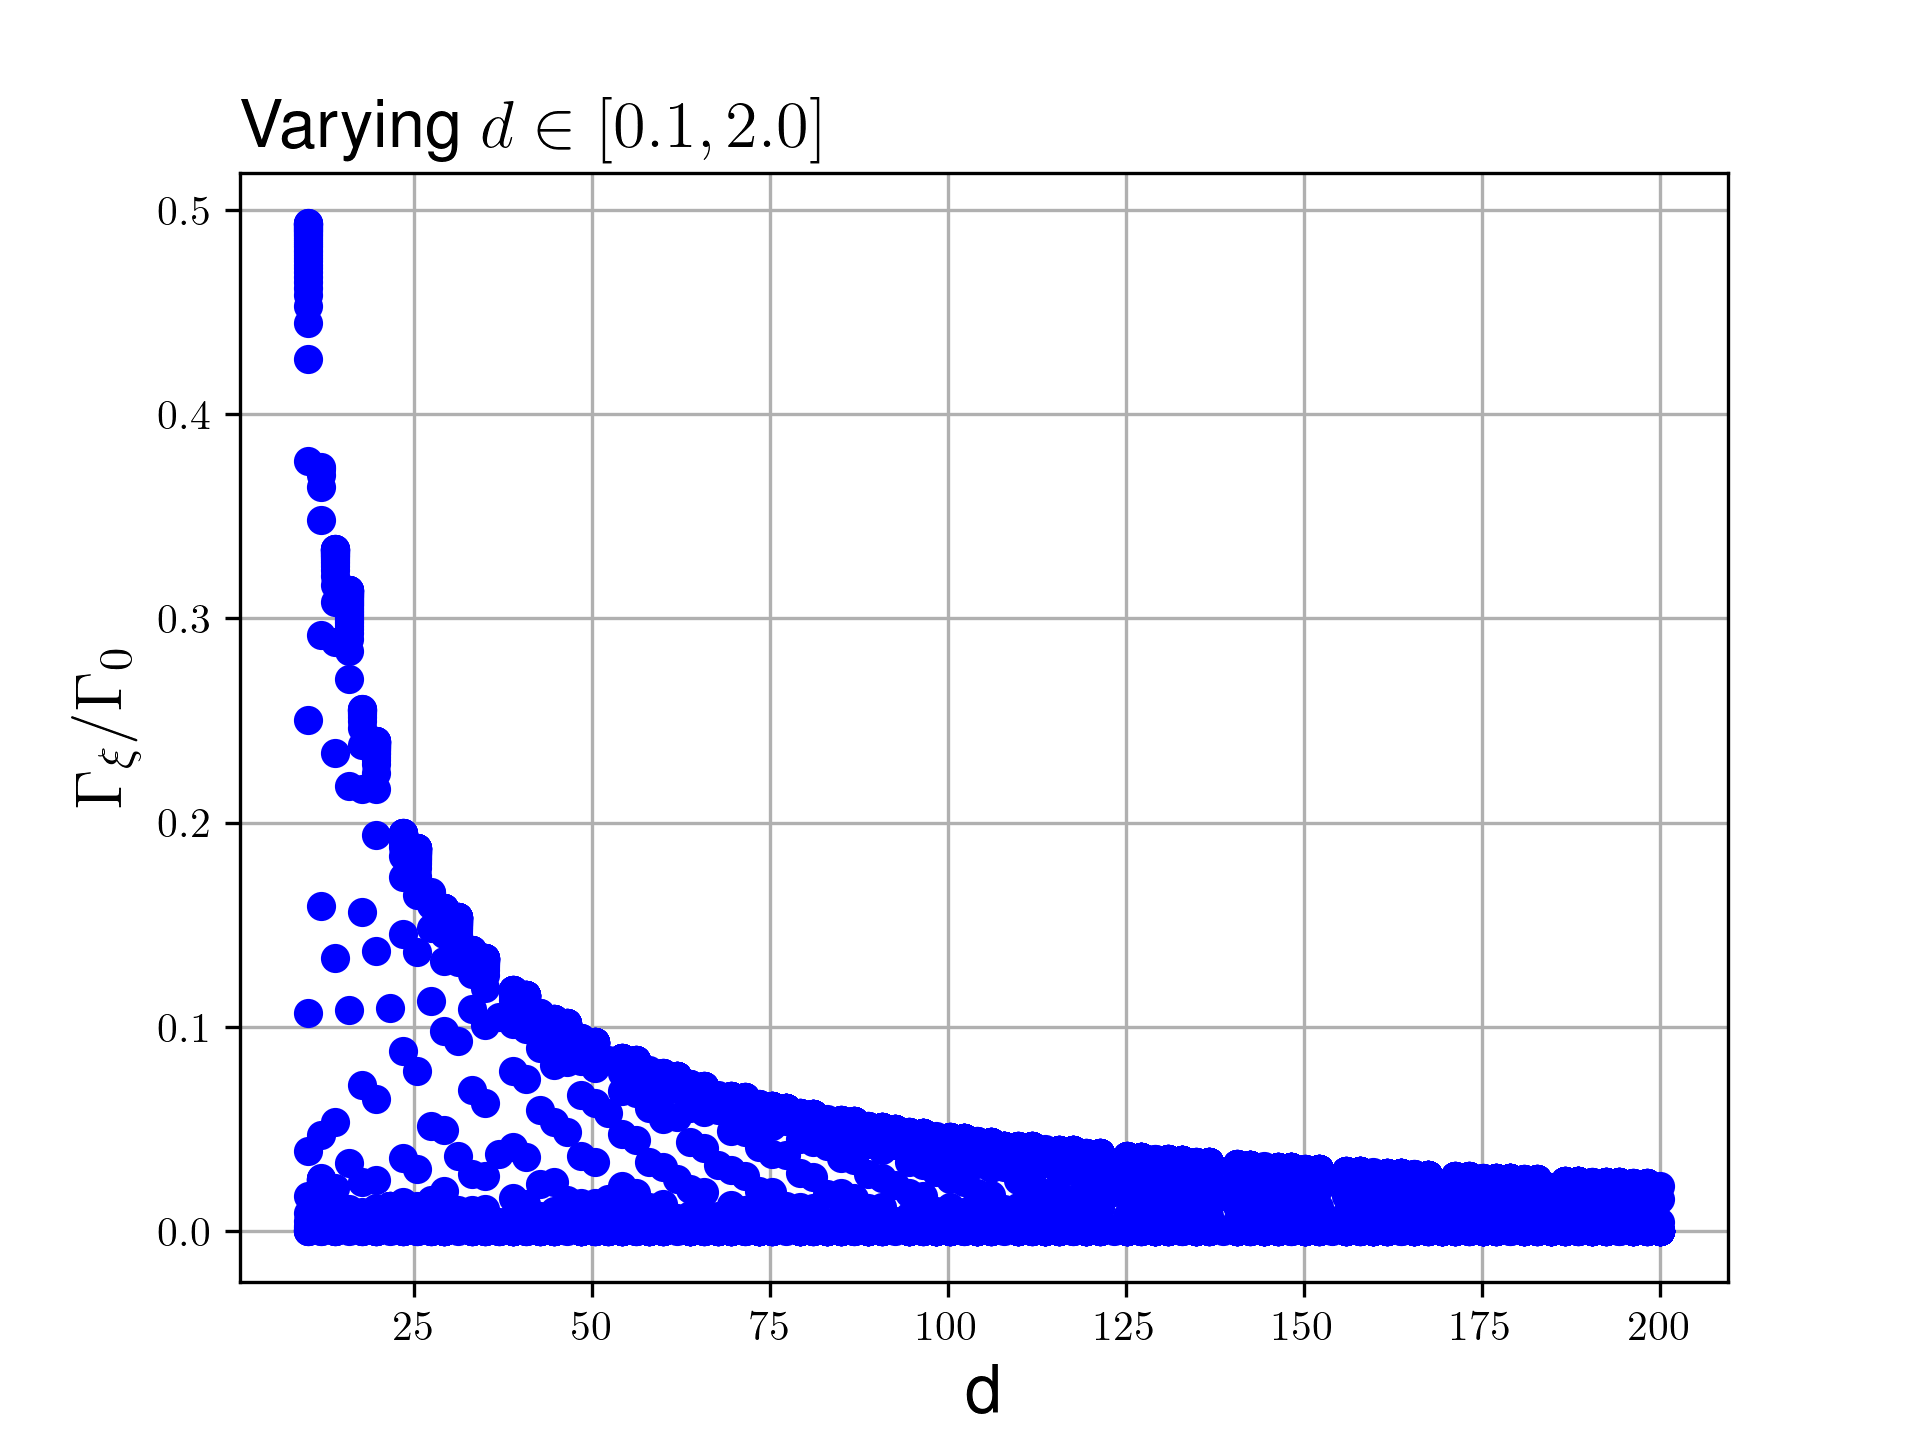
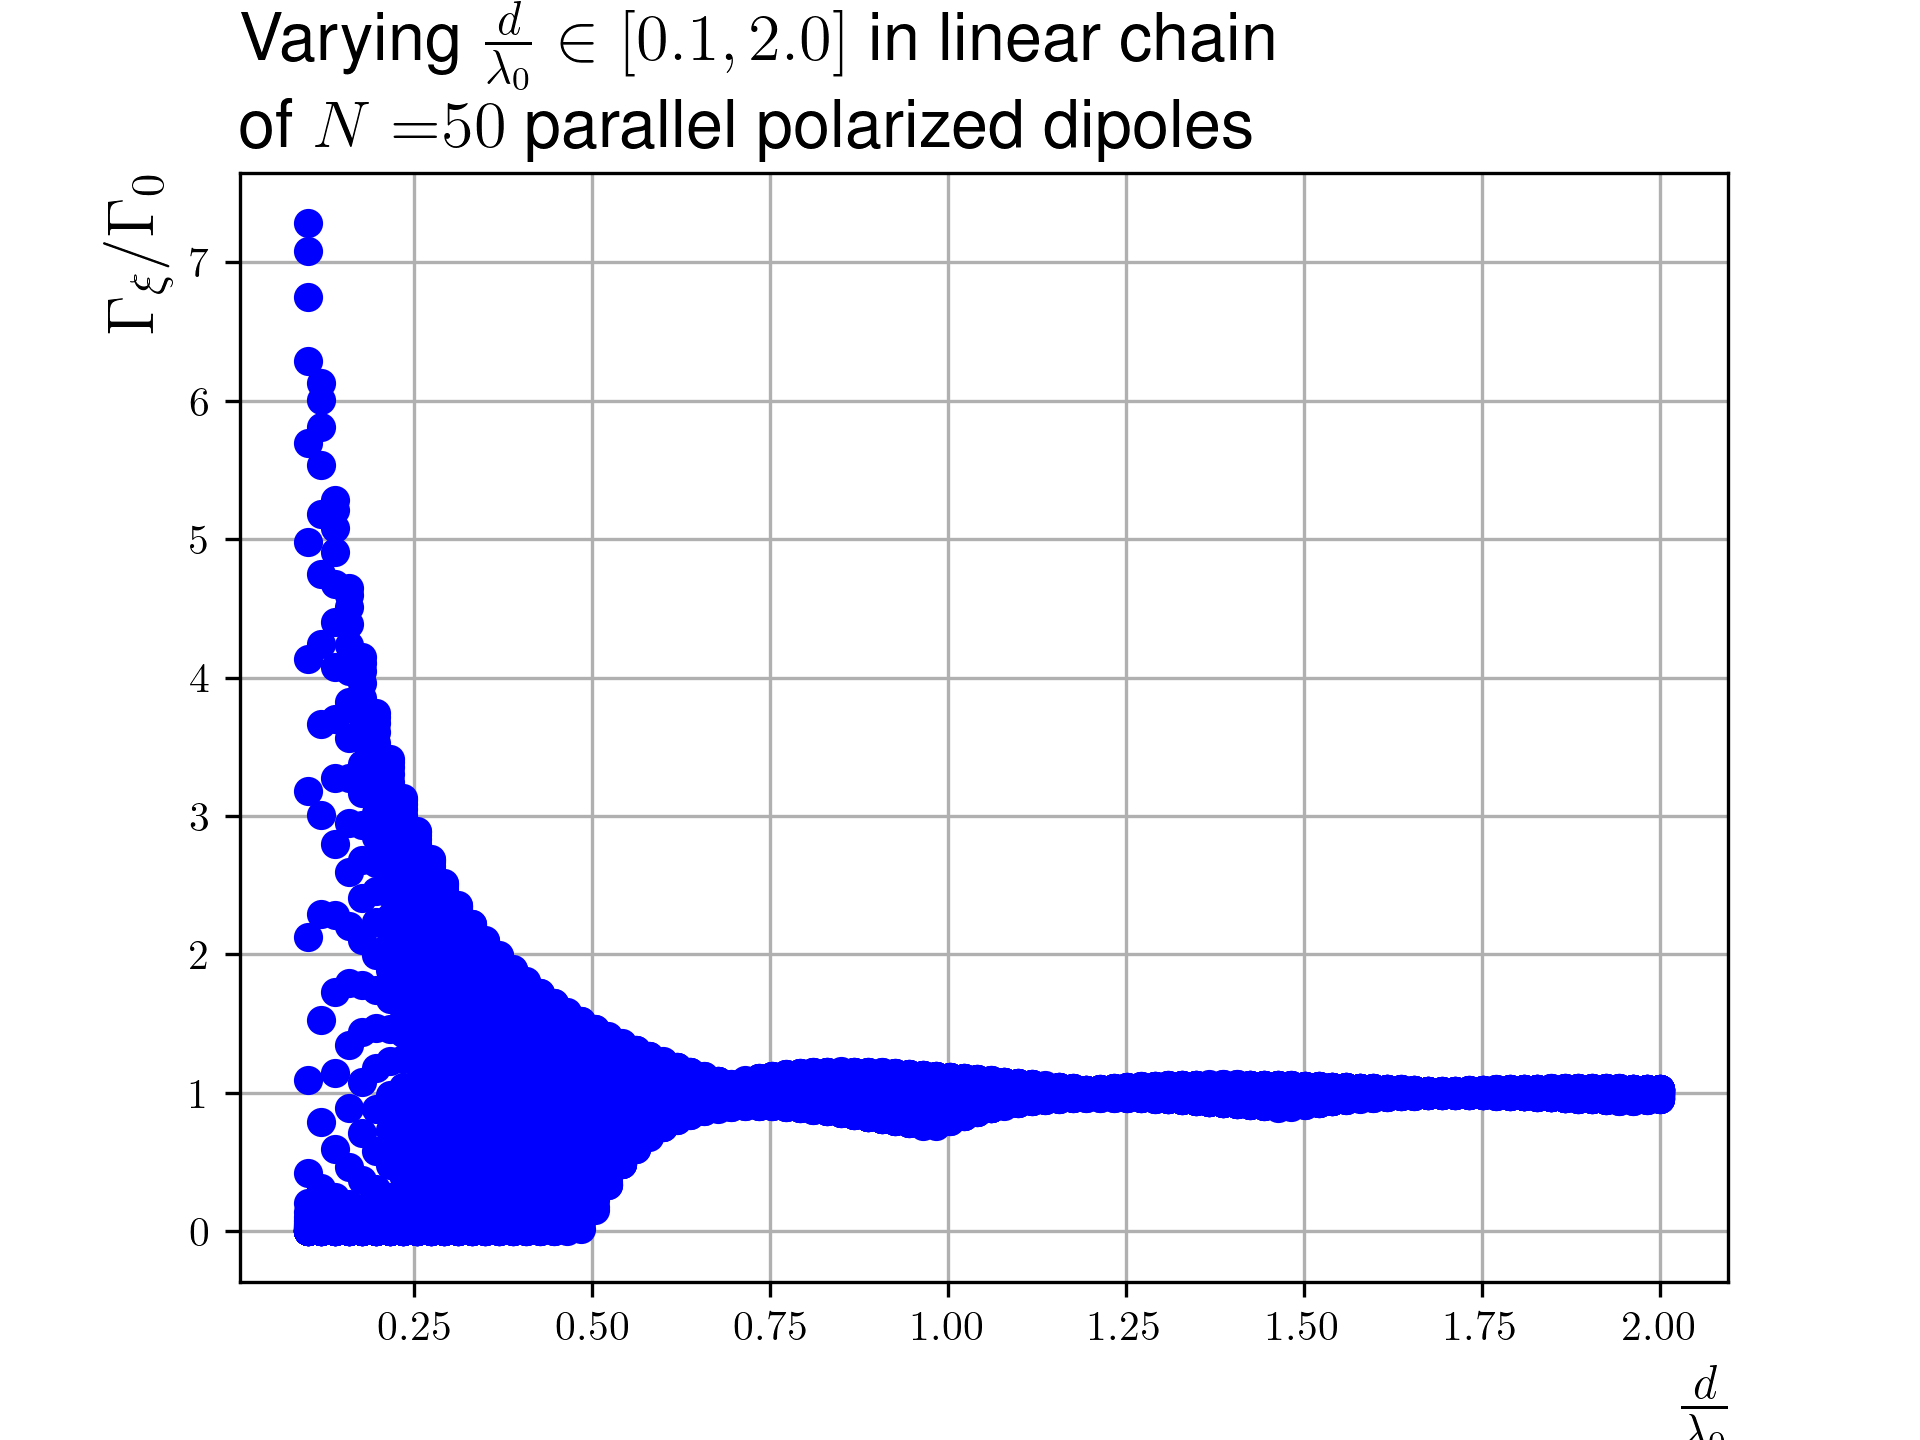
Reproduced figure 3(a) from Asenjo-Garcia

diff --git a/case_linear_parallel_var_distance.py b/case_linear_parallel_var_distance.py
@@ -1,0 +1,46 @@
+import numpy as np
+import matplotlib.pyplot as plt
+from scipy.constants import *
+from qutip import *
+from GreensTensor import *
+import Hamiltonian
+import Lattice
+import Plots
+from utils import *
+from textwrap import wrap
+
+#Program parameters:
+N = 50                                                          #number of atoms
+
+
+"""
+Different inter-atomic distances in scalar (linear transverse) case.
+"""
+
+a = np.linspace(0.1, 2.0, 100)  #d/lambda0
+d = 2*pi * a                    #The distance to feed G in units of 1/k0
+
+lat = Lattice.Lattice()
+scal = Hamiltonian.Hamiltonian()
+pola = np.zeros((N,3))
+for i in range(N):
+    pola[i,:] = ex
+
+p = Plots.Plots()
+x = np.zeros(N)
+for i in range(len(a)):
+    x[:] = a[i]
+    lat.linlat(N, d[i], ex, ex)
+    displacements = lat.getDisplacements()
+    G = fill_G(N, displacements)
+    scal.block(N, G, pola)
+    scal.eigenDecomposition()
+    y = scal.getDecayRates()
+    p.plot(x, y, 'b.')
+
+plt.xlabel(r"$\frac{d}{\lambda_0}$", loc="right")
+plt.ylabel(r"$\Gamma_\xi / \Gamma_0$", loc="top")
+plt.ylim(0,3)
+plt.title("\n".join(wrap(r"Varying $\frac{d}{\lambda_0} \in [0.1, 2.0]$ in linear chain of $N=$"+r"${}$".format(N)+" parallel polarized dipoles", 60)))
+plt.savefig("figures/case_linear_parallel_var_distance_01_2.png", dpi=300)
+p.show()

diff --git a/Lattice.py b/Lattice.py
@@ -5,6 +5,7 @@ Compute position and interrelative displacement vectors of different lattice con
 """
 
 from numpy import ndarray
+from typing import Literal
 
 class Lattice:
 
@@ -128,7 +129,7 @@ class Lattice:
         self.setDisplacements(rij)
         self.setPolarizations(polarizations)
 
-    def circlelat(self, N : int, d : float, distance_measure : {"inter", "radius"} = "inter") -> None:
+    def circlelat(self, N : int, d : float, distance_measure : Literal["inter", "radius"] = "inter") -> None:
         """
         TODO: Description
         """
